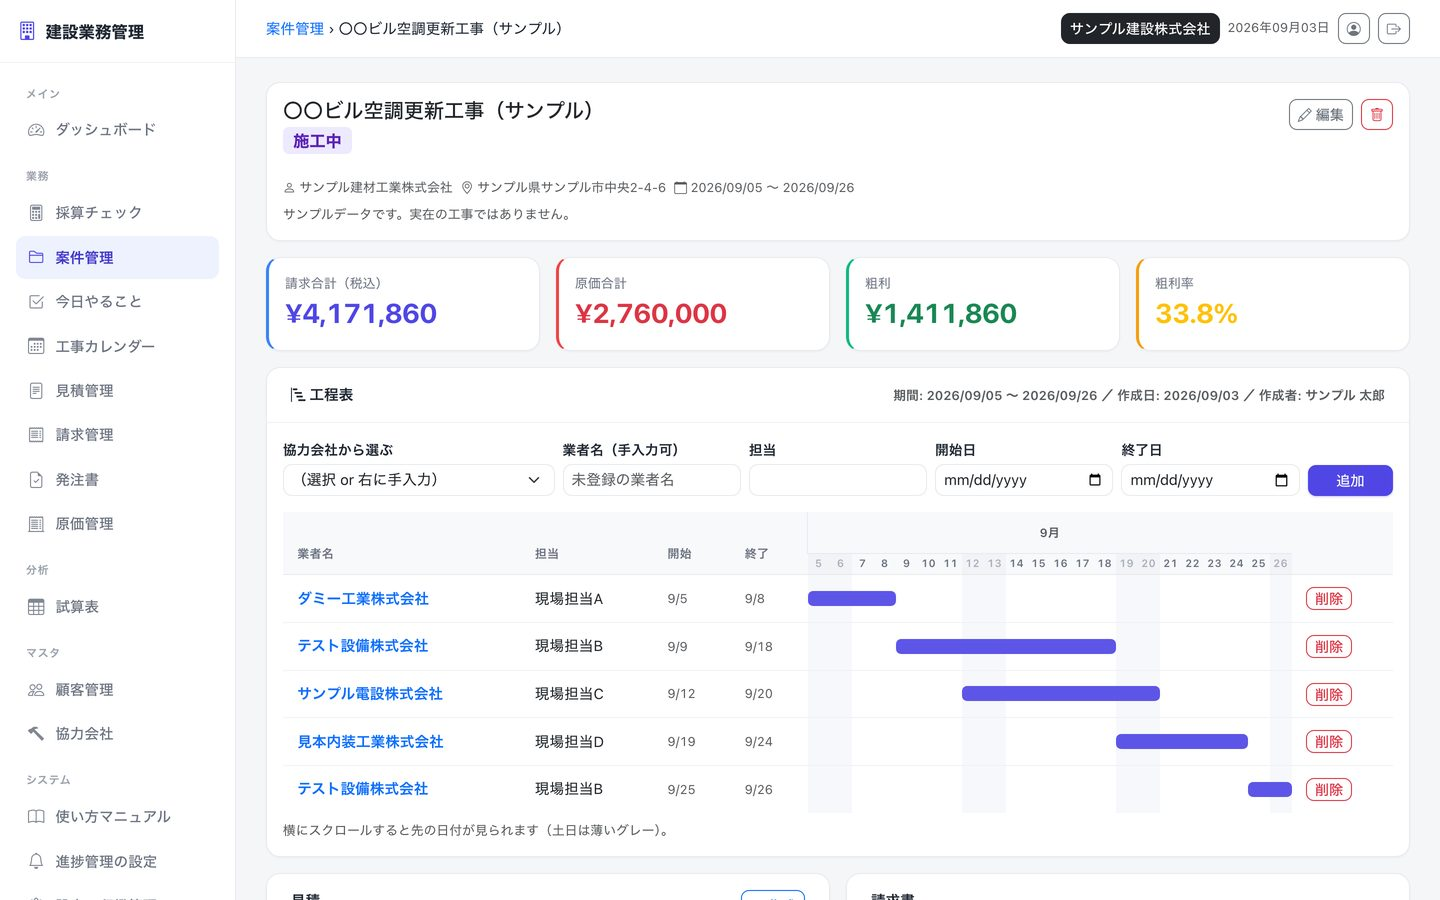
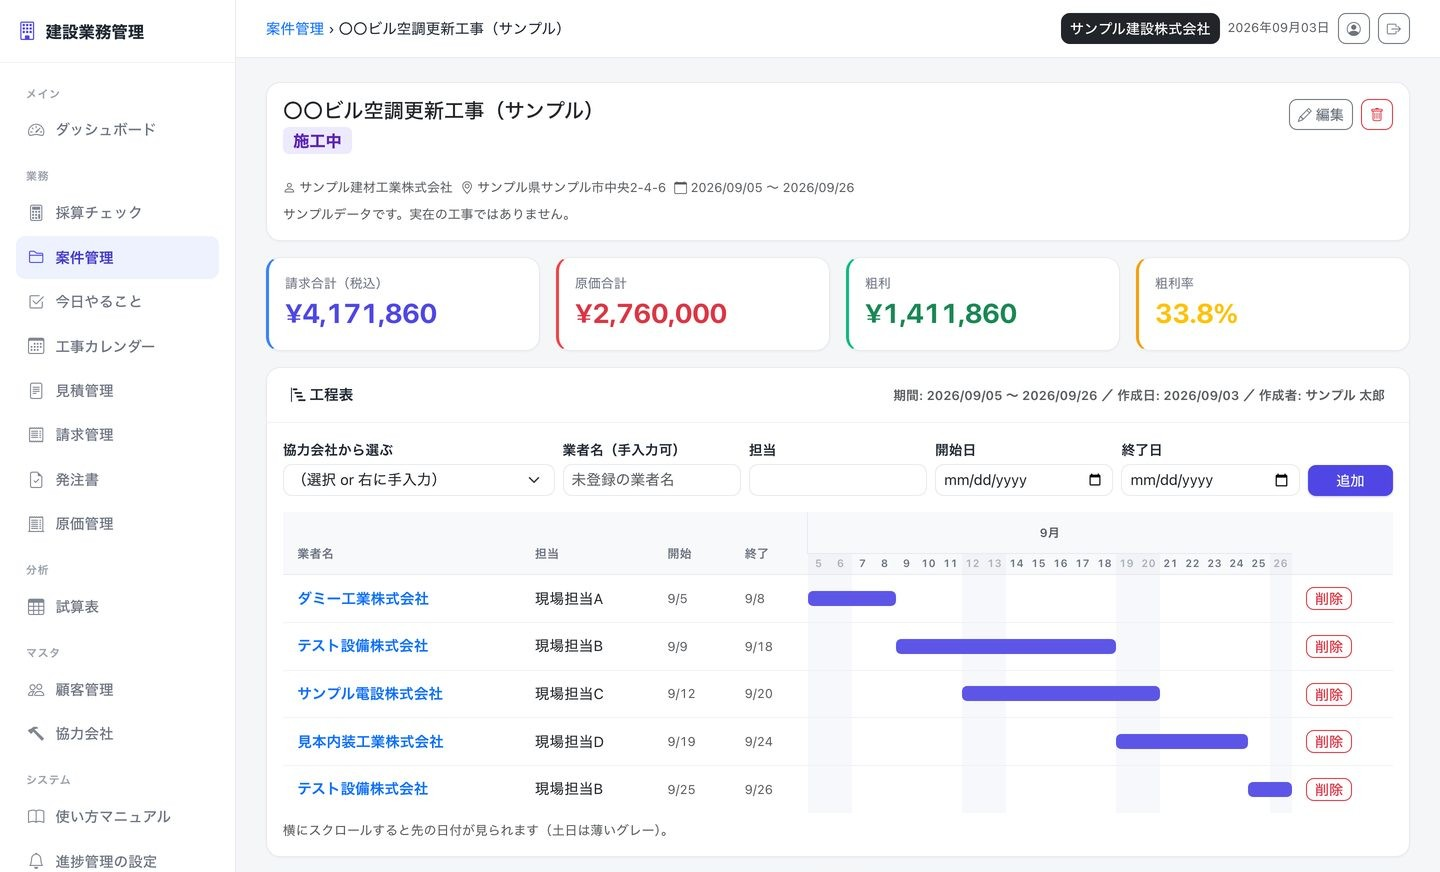
システム紹介: 建設・請求書の画面を区切りの良い位置で綺麗にトリミング
案件詳細＝工程表＋注記で終わるよう872pxに（覗いていた見積/請求書カードを除去）。
請求書プレビュー＝品目テーブル下端で終わるよう850pxに（切れていた小計/合計を除去、
ご請求金額は上部に表示済み）。中途半端な見切れを解消。ラベル・小窓は無変更。
全てサンプル会社・サンプルデータ。

Claude-Session: https://claude.ai/code/session_01Qj1qeXW5UaeBhkjPahvmWv

diff --git a/systems/invoice.html b/systems/invoice.html
@@ -340,7 +340,7 @@ ol.process-diagram{--process-columns:4;display:grid;grid-template-columns:repeat
 <div class="inv-title"><div><p class="eyebrow accent">Documents in motion</p><h1 data-type>請求書管理システム</h1></div><p class="copy">見積書から領収書まで、ひとつの流れで。<br>転記も、計算も、番号管理も。<br>自社の経理で毎日使う、書類づくりの基盤です。</p></div>
 <div class="inv-stage"><span class="inv-stage__rail" aria-hidden="true">ESTIMATE → INVOICE → RECEIPT</span>
 <figure class="screen inv-stage__dash screen--invoice-dash"><a href="../assets/img/systems/invoice-dashboard.jpg" data-screen aria-label="01 / ダッシュボード・売上と未入金を拡大"><span class="screen__bar"><span>01 / ダッシュボード・売上と未入金</span><span>VIEW FULL ↗</span></span><span class="screen__image" data-develop="up"><img src="../assets/img/systems/invoice-dashboard.jpg" alt="01 / ダッシュボード・売上と未入金（実際の画面・サンプルデータ）" width="1440" height="900" fetchpriority="high" decoding="async"><span class="screen__wash" aria-hidden="true"></span></span></a></figure>
-<figure class="screen inv-stage__print screen--invoice-print"><a href="../assets/img/systems/invoice-print.jpg" data-screen aria-label="02 / 請求書プレビュー・明細を拡大"><span class="screen__bar"><span>02 / 請求書プレビュー・明細</span><span>VIEW FULL ↗</span></span><span class="screen__image" data-develop="up"><img src="../assets/img/systems/invoice-print.jpg" alt="02 / 請求書プレビュー・明細（実際の画面・サンプルデータ）" width="1440" height="900" fetchpriority="high" decoding="async"><span class="screen__wash" aria-hidden="true"></span></span></a></figure>
+<figure class="screen inv-stage__print screen--invoice-print"><a href="../assets/img/systems/invoice-print.jpg" data-screen aria-label="02 / 請求書プレビュー・明細を拡大"><span class="screen__bar"><span>02 / 請求書プレビュー・明細</span><span>VIEW FULL ↗</span></span><span class="screen__image" data-develop="up"><img src="../assets/img/systems/invoice-print.jpg" alt="02 / 請求書プレビュー・明細（実際の画面・サンプルデータ）" width="1440" height="850" fetchpriority="high" decoding="async"><span class="screen__wash" aria-hidden="true"></span></span></a></figure>
 <p class="inv-stage__foot caption">ACTUAL SCREENS / SAMPLE DATA<br>実際の画面です。画像を押すと全体を表示。</p></div>
 <p class="inv-mobile-note caption">実際の画面・サンプルデータ。画像を押すと全体を表示。</p>
 <div class="inv-hero__bottom"><nav class="inline-nav" aria-label="ページ内ナビゲーション"><a href="#flow">書類の流れ ↓</a><a href="#craft">帳票の細部 ↓</a><a href="#pricing">料金 ↓</a></nav><p class="inv-trial"><b>30</b>日間の無料お試しつき</p><a class="cta" href="../index.html#contact">このシステムを相談する <span class="ar">→</span></a></div>
@@ -351,7 +351,7 @@ ol.process-diagram{--process-columns:4;display:grid;grid-template-columns:repeat
 <p class="inv-flow__note copy muted">小計・消費税・合計は自動計算。端数処理も設定できます。<br>過去の書類は、取引先・期間で一覧から探せます。</p>
 </section>
 <section class="inv-craft" id="craft" data-sec data-theme="light">
-<div class="inv-craft__visual"><figure class="screen screen--invoice-print"><a href="../assets/img/systems/invoice-print.jpg" data-screen aria-label="02 / 請求書プレビュー・明細を拡大"><span class="screen__bar"><span>02 / 請求書プレビュー・明細</span><span>VIEW FULL ↗</span></span><span class="screen__image" data-develop="up"><img src="../assets/img/systems/invoice-print.jpg" alt="02 / 請求書プレビュー・明細（実際の画面・サンプルデータ）" width="1440" height="900" loading="lazy" decoding="async"><span class="screen__wash" aria-hidden="true"></span></span></a><figcaption class="caption">ACTUAL SCREEN — 表示はサンプルデータ。画像を押すと全体を表示。</figcaption></figure></div>
+<div class="inv-craft__visual"><figure class="screen screen--invoice-print"><a href="../assets/img/systems/invoice-print.jpg" data-screen aria-label="02 / 請求書プレビュー・明細を拡大"><span class="screen__bar"><span>02 / 請求書プレビュー・明細</span><span>VIEW FULL ↗</span></span><span class="screen__image" data-develop="up"><img src="../assets/img/systems/invoice-print.jpg" alt="02 / 請求書プレビュー・明細（実際の画面・サンプルデータ）" width="1440" height="850" loading="lazy" decoding="async"><span class="screen__wash" aria-hidden="true"></span></span></a><figcaption class="caption">ACTUAL SCREEN — 表示はサンプルデータ。画像を押すと全体を表示。</figcaption></figure></div>
 <div class="inv-craft__text"><p class="sl">02 / Details on paper</p><h2 class="section-title" data-type>取引先に届く、<br>一枚の細部まで。</h2>
 <div class="inv-craft__item"><p class="feature-code">COMPLIANCE</p><h3>インボイス制度に対応した様式。</h3><p>登録番号・税率区分・税額の記載は、最初から様式に。書類ごとに記載欄をつくり直す必要はありません。</p></div>
 <div class="inv-craft__item"><p class="feature-code">05 / TEMPLATES</p><h3>紙面の雛形は、5種類。</h3><p>標準・コンパクト・シンプル・線・格子。用途に合わせて選び、印刷・PDF保存できます。</p></div>

diff --git a/systems/construction.html b/systems/construction.html
@@ -301,7 +301,7 @@ section,article[id]{scroll-margin-top:105px}.dark{color:var(--paper)}
 <main id="main">
 <section class="build-hero dark" id="top" data-sec><div class="page-topline eyebrow"><a href="../system.html">← Systems / 02</a><span>Construction ERP — NI GROUP</span></div>
 <div class="build-heading"><div><p class="eyebrow accent">One project. Every operation.</p><h1 data-type>建設業務管理<small>建設業務管理システム / CONSTRUCTION ERP</small></h1></div><p class="build-heading__aside">現場の利益を、<br>締める前に。</p></div>
-<div class="build-hero__screen"><figure class="screen screen--project"><a href="../assets/img/systems/const-project.jpg" data-screen aria-label="01 / 案件詳細・工程表を拡大"><span class="screen__bar"><span>01 / 案件詳細・工程表</span><span>VIEW FULL ↗</span></span><span class="screen__image" data-develop="left"><img src="../assets/img/systems/const-project.jpg" alt="01 / 案件詳細・工程表（実際の画面・サンプルデータ）" width="1440" height="900" fetchpriority="high" decoding="async"><span class="screen__wash" aria-hidden="true"></span></span></a></figure></div>
+<div class="build-hero__screen"><figure class="screen screen--project"><a href="../assets/img/systems/const-project.jpg" data-screen aria-label="01 / 案件詳細・工程表を拡大"><span class="screen__bar"><span>01 / 案件詳細・工程表</span><span>VIEW FULL ↗</span></span><span class="screen__image" data-develop="left"><img src="../assets/img/systems/const-project.jpg" alt="01 / 案件詳細・工程表（実際の画面・サンプルデータ）" width="1440" height="872" fetchpriority="high" decoding="async"><span class="screen__wash" aria-hidden="true"></span></span></a></figure></div>
 <div class="build-hero__base"><p class="copy">見積・発注・請求・原価を、現場単位でひとつに。<br>発注と請求を入れた時点で、現場ごとの残り利益が見えます。</p><div><p class="caption">ACTUAL SCREEN / SAMPLE DATA<br>実際の画面。画像を押すと全体を表示。</p><a class="cta" href="../index.html#contact">このシステムを相談する <span class="ar">→</span></a></div></div>
 </section>
 <section class="build-site" id="project" data-sec data-theme="light"><div class="build-site__head"><p class="sl">01 / Project structure</p><h2 class="section-title" data-type>現場を軸に、<br>数字も、段取りも。</h2></div>
